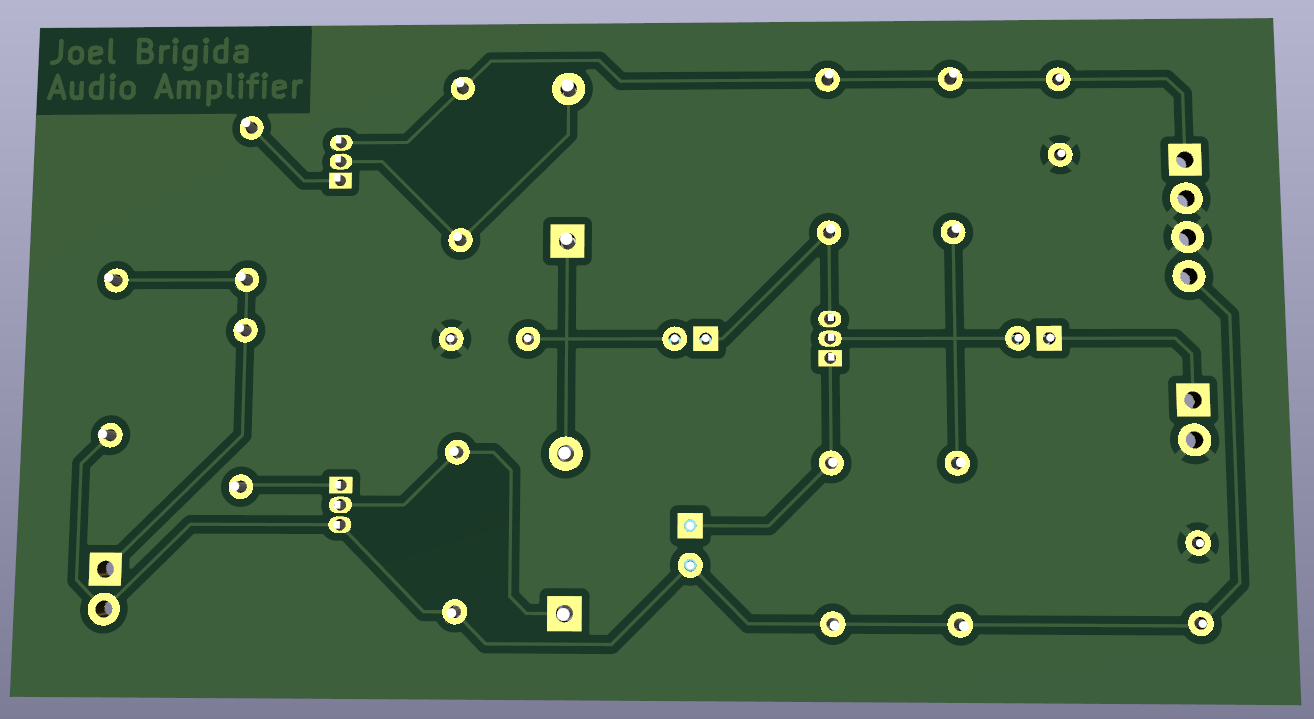
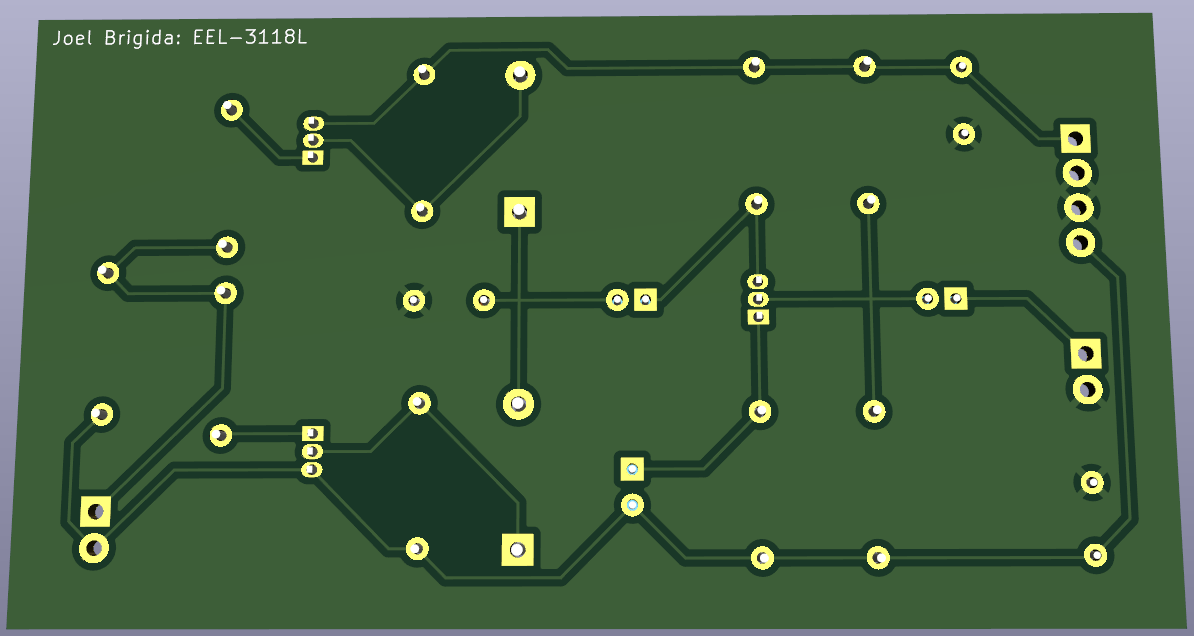
Update README to reflect Redesign

diff --git a/KiCAD/AudioAmpEEL/README.md b/KiCAD/AudioAmpEEL/README.md
@@ -3,29 +3,43 @@
 This is a project for Electronics 1 Lab. This is a Dual Power Supply Complementary Audio Amplifier built and 
 rendered using KiCad. This design was tested and working using the Digilent Analog Discovery 2. The center frequency for this amplifier is 10kHz.
 
+## Schematic & PCB Layouts:
+
 <div align="center">
 
 <small>
     Schematic for Audio Amp<br>
 </small>
-<img src="./assets/Schematic.png" alt="Tutorial Schematic" width="600"/>
+<img src="./assets/Schematic.png" alt="Audio Amp Schematic" width="800"/>
 
 </div>
+<br>
+<div align="center">
+
+<small>
+    PCB View for Audio Amp<br>
+</small>
+<img src="./assets/PCB-View.png" alt="PCB View" width="800"/>
+
+</div>
+<br>
+
+## 3D Renderings:
 
 <div align="center">
 
 <small>
     Top of PCB Design<br>
 </small>
-<img src="./assets/Top.png" alt="PCB Top" width="600"/>
+<img src="./assets/Top.png" alt="PCB Top" width="800"/>
 
 </div>
-
+<br>
 <div align="center">
 
 <small>
     Bottom of PCB Design<br>
 </small>
-<img src="./assets/Bottom.png" alt="PCB Bottom" width="600"/>
+<img src="./assets/Bottom.png" alt="PCB Bottom" width="800"/>
 
 </div>
